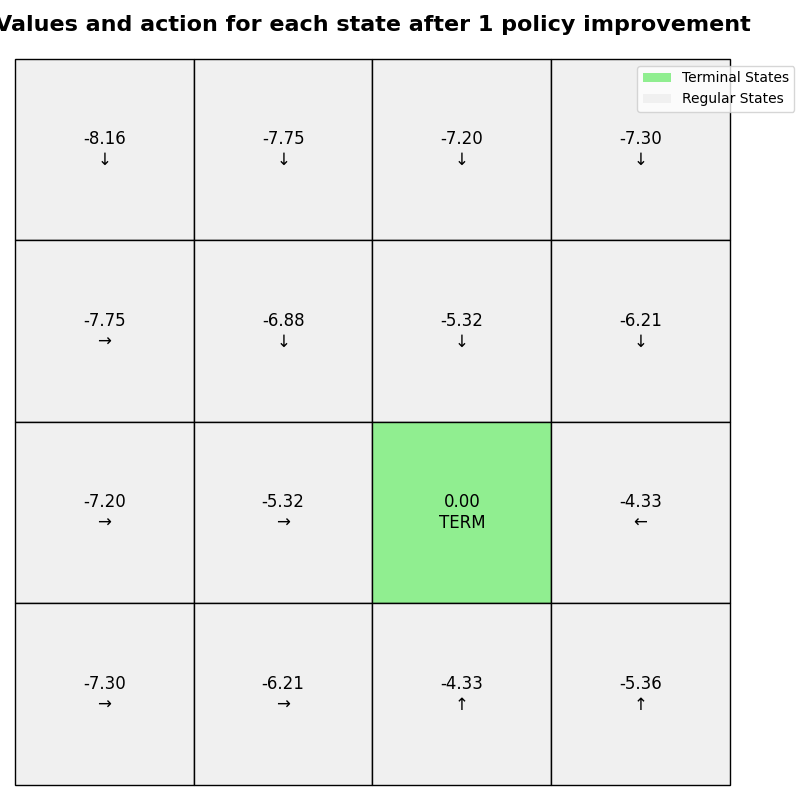
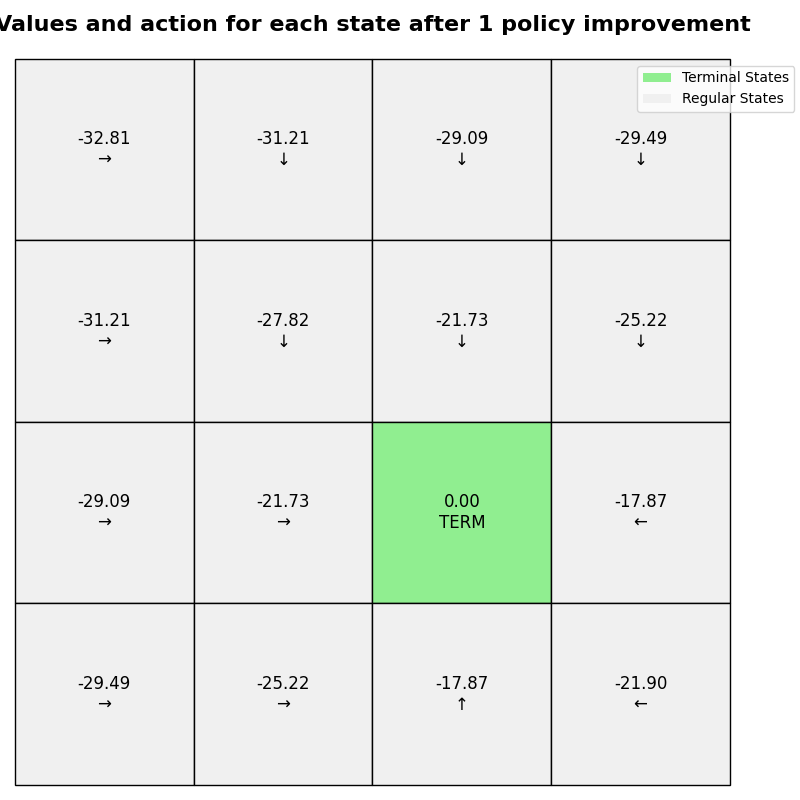
Update reward parameters in assignment1_main.py for problems 3 and 4; adjust stepReward to -4 and goalReward to -1. Revise assignment1_report.md to reflect these changes and enhance problem descriptions. Update images for problem evaluations.

diff --git a/assignments/assignment1/assignment1_main.py b/assignments/assignment1/assignment1_main.py
@@ -571,8 +571,8 @@ def main():
     elif config.problem == 3:
         # Prob 3
         logger.info(f"Performing calculations for Prob 3: {config.task} with {config.valueFunctionInit} value function and uniform distribution for policy initialization")
-        config.stepReward = -1
-        config.goalReward = 0
+        config.stepReward = -4
+        config.goalReward = -1
         config.gamma = 0.9
         config.epsilon = 1e-6
         config.max_iterations = 150
@@ -586,8 +586,8 @@ def main():
     elif config.problem == 4:
         # Prob 4
         logger.info(f"Performing calculations for Prob 4: {config.task} with {config.valueFunctionInit} value function and uniform distribution for policy initialization")
-        config.stepReward = -1
-        config.goalReward = 0
+        config.stepReward = -4
+        config.goalReward = -1
         config.gamma = 0.9
         config.epsilon = 1e-6
         config.max_iterations = 150

diff --git a/assignments/assignment1/assignment1_report.md b/assignments/assignment1/assignment1_report.md
@@ -66,27 +66,95 @@ python assignment1_main.py --problem 4
 - Reward for going to the terminal state 0.
 
 ## Problem 1
+- Policy iteration
 - Policy is uniform distribution policy
 - every step generates reward -1
+- Goal reward 0
 - gamma $\gamma=0.9$
+- Goal state (0,0) and (3,3)
 - Evaluate the policy iteratively
 - Plot the value of each state after the policy evaluation is complete(One plot)
 - Tips: 1. run more than 150 iterations. 2. set the convergence threshold less than 1e-6
 
+
 Run `python assignment1_main.py --problem 1`
+```Python
+# Problem 1 sets the following options
+#config.stepReward = -1
+#config.goalReward = 0
+#config.gamma = 0.9
+#config.epsilon = 1e-6
+#config.max_iterations = 150
+#config.grid_size = 4
+#config.valueFunctionInit = "V"
+#config.randomValueFunctionInit = False
+#config.randomPolicyInit = False
+#config.task = "policy_iteration"
+#config.plotTable = True
+#config.goalStates = [(0, 0), (3, 3)]
+```
+
 ### Value and action of each state after the policy evaluation is complete 
 ![Value and action of each state after the policy evaluation is complete](./images/prob1.png)
 
 
 ## Problem 2
-Run `python assignment1_main.py --problem 2`
+- Policy iteration
+- Policy is uniform distribution policy
+- every step generates reward -4
+- Goal reward -1
+- gamma $\gamma=0.9$
+- Goal state (2,2) --> state 10
+- Evaluate the policy iteratively
+- Plot the value of each state after the policy evaluation is complete(One plot)
 
+
+Run `python assignment1_main.py --problem 2`
+```Python
+# Problem 2 sets the following options
+# config.stepReward = -4
+# config.goalReward = -1
+# config.gamma = 0.9
+# config.epsilon = 1e-6
+# config.max_iterations = 150
+# config.grid_size = 4
+# config.valueFunctionInit = "V"
+# config.randomValueFunctionInit = False
+# config.randomPolicyInit = False
+# config.task = "policy_iteration"
+# config.plotTable = True
+# config.goalStates = [(2, 2)]
+```
 ### Value and action of each state after the policy evaluation is complete
 ![Value and action of each state after the policy evaluation is complete](./images/prob2.png)
 
 
 ## Problem 3
+- Policy iteration
+- Policy is uniform distribution policy
+- every step generates reward -4
+- Goal reward -1
+- gamma $\gamma=0.9$
+- Goal state (2,2) --> state 10
+- Evaluate the policy iteratively
+
+
 Run `python assignment1_main.py --problem 3`
+```Python
+# Problem 3 sets the following options
+# config.stepReward = -4
+# config.goalReward = -1
+# config.gamma = 0.9
+# config.epsilon = 1e-6
+# config.max_iterations = 150
+# config.grid_size = 4
+# config.valueFunctionInit = "V"
+# config.randomValueFunctionInit = False
+# config.randomPolicyInit = False
+# config.task = "policy_iteration"
+# config.plotTable = True
+# config.goalStates = [(2, 2)]
+```
 ### Value and action of each state after the 1st policy improvement
 ![Value and action of each state after the 1st policy improvement](./images/prob3a.png)
 
@@ -99,7 +167,29 @@ Run `python assignment1_main.py --problem 3`
 ![Value and action of each state after the 3rd policy improvement](./images/prob3c.png)
 
 ## Problem 4
+- Value iteration
+- every step generates reward -4
+- Goal reward -1
+- gamma $\gamma=0.9$
+- Goal state (2,2) --> state 10
+
+
 Run `python assignment1_main.py --problem 4`
+```Python
+# Problem 4 sets the following options
+# config.stepReward = -4
+# config.goalReward = -1
+# config.gamma = 0.9
+# config.epsilon = 1e-6
+# config.max_iterations = 150
+# config.grid_size = 4
+# config.valueFunctionInit = "V"
+# config.randomValueFunctionInit = False
+# config.randomPolicyInit = False
+# config.task = "value_iteration"
+# config.plotTable = True
+# config.goalStates = [(2, 2)]
+```
 ### Value after the algorithm is complete
 ![Value after the algorithm is complete](./images/prob4a.png)
 
